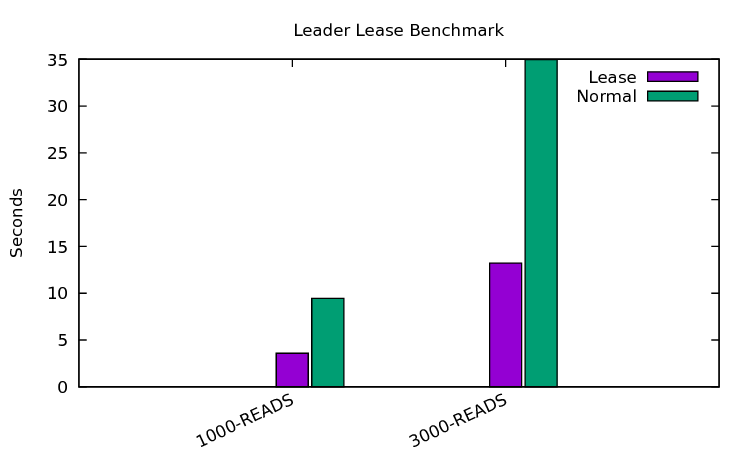
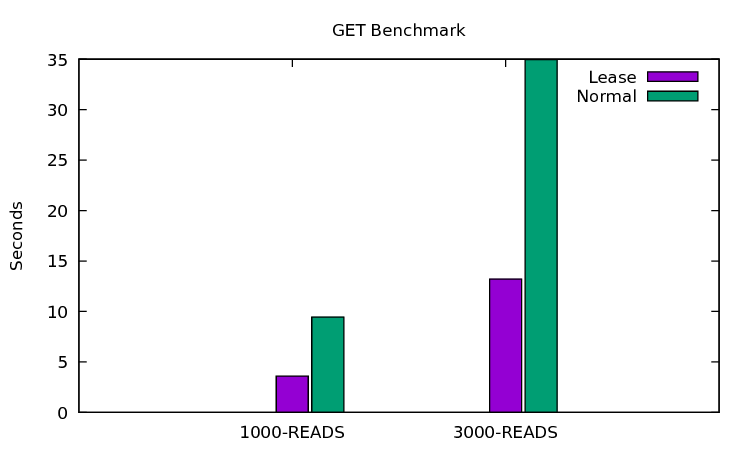
Add LE text and fix plot

diff --git a/report/report.tex b/report/report.tex
@@ -39,7 +39,7 @@
 \title{\textbf{ID2203 Project}}
 \author{Max Meldrum\\
 	Vaikunth Srinivasan A}
-\date{}
+\date{\today}
 \begin{document}
 
 \maketitle
@@ -89,6 +89,7 @@ In this report, we will put more focus on describing on how the broadcast phase 
 As we are in the fail-silent model, we do not rely on a perfect failure detector or an eventually perfect failure detector. We utilise the Zab approach, where the primary periodically checks if it has a majority of replicas connected to it. This means that backups frequently send heartbeats to the primary. If a primary notices that it no longer has a majority of followers connected, it enters an election phase. What if backup’s are isolated and cannot connect with anyone? The solution to this is that backup’s also receives heartbeats from the primary. If a backup stops hearing from the primary, it will enter an election phase and attempt to elect a new primary.
 
 \subsection{Leader Election}
+As mentioned in \cite{zk-internals}, the only requirements that we have to meet is that the leader has seen the highest (epoch, commitNumber) and that a majority of replicas has committed to following it. Our leader election is not an optimal approach, but it satisfies the previous mentioned requirements. Once a replica enters election phase, it broadcasts a NewLeaderProposal event. Replicas receiving the proposal compare the commitNumber and epoch to its own, if it is safe, then we reply with a NewLeaderAck. After acquiring a majority, a NewLeaderCommit is sent out and the replica enters the Primary state and is now able to execute client requests.
 
 \section{Kompics Components}
 \subsection{Overview}
@@ -136,7 +137,7 @@ Linearizability is a correctness condition for concurrent objects that exploits 
 \begin{figure}[H]
   \centering
   \includegraphics[scale=0.6]{img/benchmark.png}
-  \caption[Caption for LOF]{Benchmarking Leader lease	}  
+  \caption[Caption for LOF]{Leader Lease enhancement}  
   \label{fig:picture}
 \end{figure}
 
